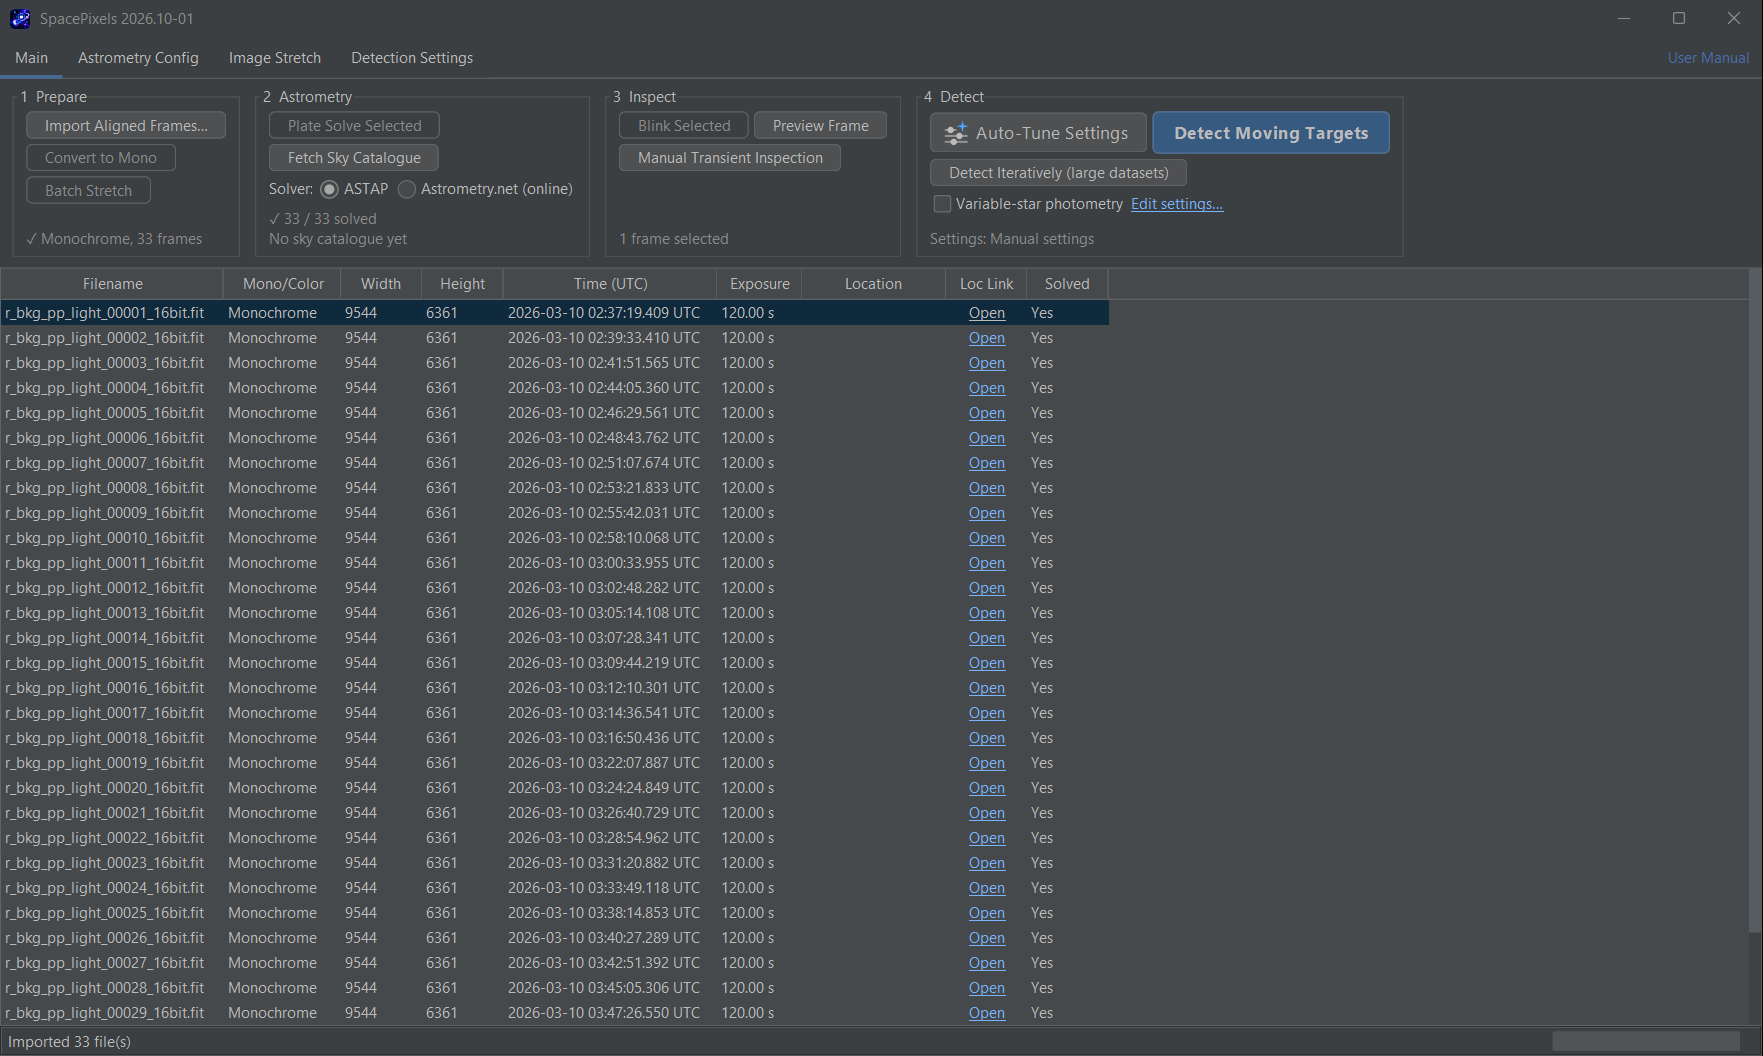
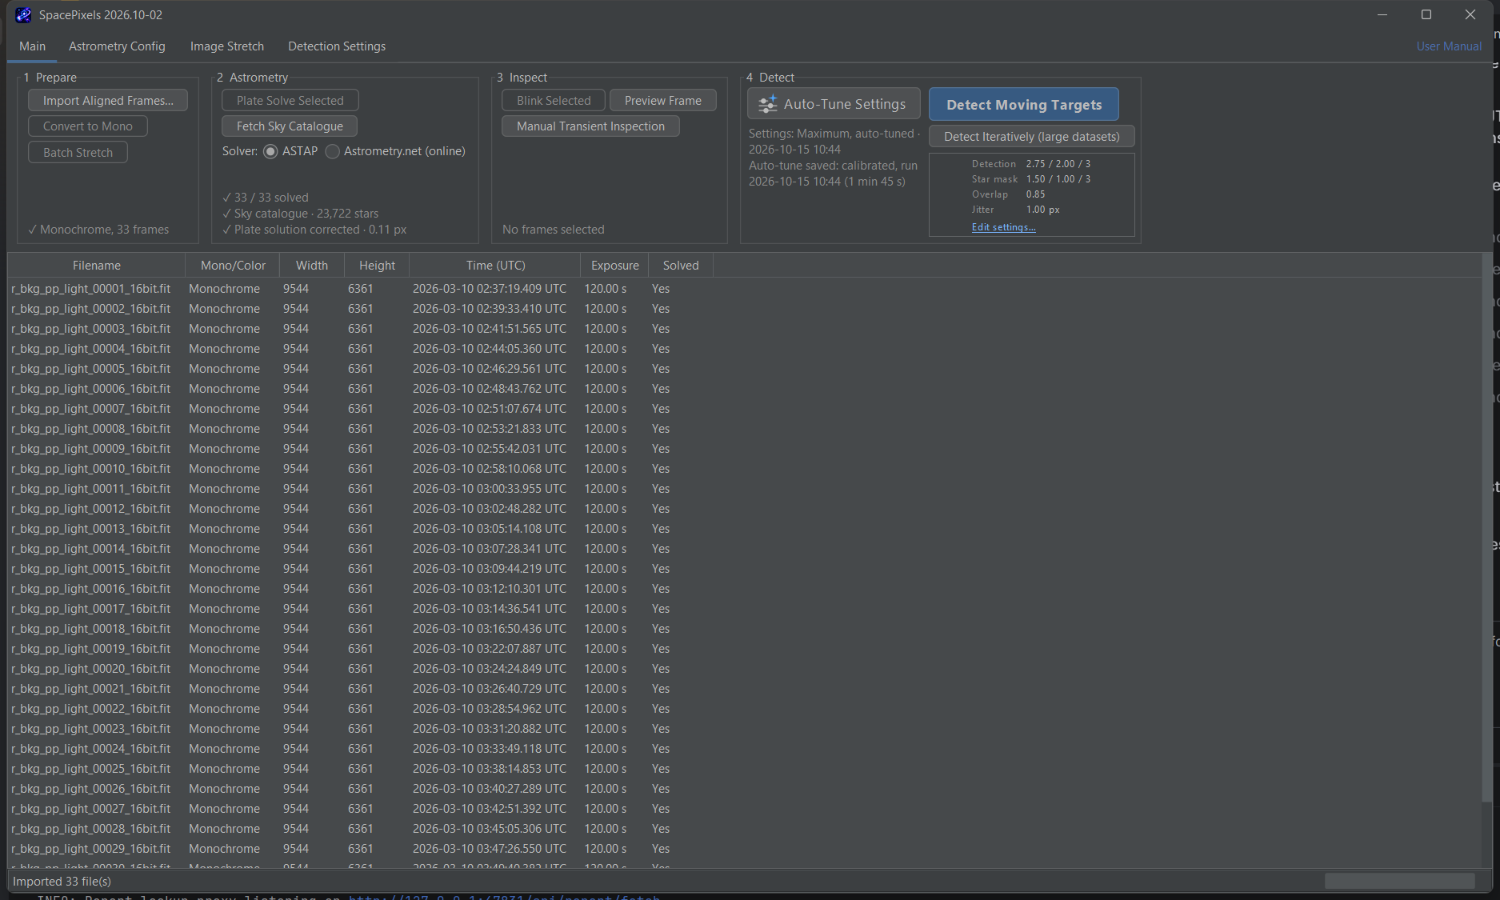
Update manual

Changed region(s): [[0.0, 0.0, 1.0, 1.0]]

diff --git a/MANUAL.md b/MANUAL.md
@@ -24,13 +24,16 @@ This manual walks through the everyday workflows with screenshots from real sess
 
 ### Your data
 
-SpacePixels is the opposite of a stacker: it looks for what changes between your frames, so it needs the frames *before* they are stacked. It works best with:
+The input to SpacePixels is the same input files for your stacking software: the aligned  + calibrated dataset.
+But SpacePixels is the opposite of a stacker: it looks for what changes between your frames. It works best with:
 
 - **aligned (registered) sub-exposures**, so the stars stay in the same place in every frame;
 - **calibrated** frames (darks and flats), although uncalibrated data also works, with more noise detections;
 - frames from **one session and one camera setup**, all with the same size;
 - **timestamps** in the FITS headers (`DATE-OBS`), so speeds and object identification work.
 - **unprocessed** data (i.e. just raw images, calibrated and aligned)
+
+
 
 Supported files: FITS (`.fit`, `.fits`, `.fts`), compressed FITS (`.fz`) and XISF, 16 or 32 bit, monochrome or colour. SpacePixels offers to convert what the detection needs (decompression, 16 bit, monochrome) when you import. Keep one sequence per folder: all files in a folder must have the same type, bit depth, size and layout, and either all frames have timestamps or none.
 
@@ -63,7 +66,11 @@ The window has four tabs:
 | **Image Stretch** | how frames are displayed in the viewers |
 | **Detection Settings** | Auto-Tune and every detection setting |
 
-The other tabs open once frames are imported. Each group on the Main tab has a status line underneath that tells you what is ready and what is missing; when a button is greyed out, its tooltip says why. The **User Manual** link at the right end of the tab bar opens this manual in your browser.
+The other tabs open once frames are imported. **1 Prepare**, **2 Astrometry** and **3 Inspect** each have a status line underneath that tells you what is ready and what is missing; when a button is greyed out, its tooltip says why.
+
+**Detect** is split in two. On the left, **Auto-Tune Settings** has a short note under it: which settings are in use, and, after this folder has a saved auto-tune, when that auto-tune was run. On the right are **Detect Moving Targets**, **Detect Iteratively**, and a small box with the detection settings now in use: detection and star-mask sigma, grow and minimum pixels, the mask overlap, and the star jitter. **Edit settings…** at the bottom of that box opens Detection Settings.
+
+The **User Manual** link at the right end of the tab bar opens this manual in your browser.
 
 ---
 
@@ -77,7 +84,7 @@ Click **Import Aligned Frames…** (the highlighted button in **1 Prepare**) and
 
 ![The imported session](docs/images/manual/ui-imported.png)
 
-The table lists every frame with its size, time, exposure, location and whether it is plate-solved. The status lines confirm what SpacePixels found: here *Monochrome, 33 frames* and *33 / 33 solved*. If the frames are in colour, click **Convert to Mono** first; if they are compressed, XISF or 32 bit, SpacePixels offers the conversion during import.
+The table lists every frame with its size, time, exposure and whether it is plate-solved. The status lines confirm what SpacePixels found: here *Monochrome, 33 frames* and *33 / 33 solved*. If this folder already has a saved auto-tune, the note under **Auto-Tune Settings** names the profile and when it was run, and the box on the right shows those detection settings. If the frames are in colour, click **Convert to Mono** first; if they are compressed, XISF or 32 bit, SpacePixels offers the conversion during import.
 
 ### Step 2 (optional): plate-solve one frame
 
@@ -97,7 +104,7 @@ Open **Detection Settings** (or click **Edit settings…** in **4 Detect**). The
 
 ![Auto-Tune running](docs/images/manual/ui-autotune-running.png)
 
-Click **Run Auto-Tune**, or **Auto-Tune Settings** to the left of **Detect Moving Targets** on the Main tab (or press **Ctrl+T**), which opens this page and starts the run with the tuner and profile chosen here. It measures your own frames: how sharp the stars are, how much the stars jitter, how many noise detections each setting produces and how faint a test star each setting still finds. This takes from a few seconds to a few minutes (here 2 min 7 s for 33 × 61 MPix).
+Click **Run Auto-Tune**, or **Auto-Tune Settings** on the Main tab (or press **Ctrl+T**), which opens this page and starts the run with the tuner and profile chosen here. It measures your own frames: how sharp the stars are, how much the stars jitter, how many noise detections each setting produces and how faint a test star each setting still finds. This takes from a few seconds to a few minutes (here 1 min 45 s for 33 × 61 MPix). While it runs, the button reads **Tuning…** and a progress window shows the frame it is on. **Preview Frame** on this page opens the same preview as **Preview Frame** on the Main tab.
 
 ![Auto-Tune results](docs/images/manual/ui-autotune-done.png)
 
@@ -114,7 +121,9 @@ The columns tell you what to expect: **Expected noise detections** is about how 
 
 The profile chosen in **Apply after run** (High by default) is applied as soon as the run finishes; SpacePixels remembers your choice. To switch, select another row and click **Use Selected Profile**. The changed settings are marked with a blue name and a dot, and **Save** keeps them for the next start.
 
-**Show Auto-Tune Chart…** draws, for the profile you pick, the false detections against the share of test stars found (the budget is the vertical line, and the marked point is the setting that was chosen) and the recovery of test stars by brightness for that setting.
+**Show Auto-Tune Chart…** draws, for the profile you pick, the false detections against the share of test stars found (the budget is the vertical line, and the marked point is the setting that was chosen) and the recovery of test stars by brightness for that setting. In the picture the selected profile is Maximum, the one last chosen in **Apply after run**.
+
+![The Auto-Tune chart](docs/images/manual/ui-autotune-chart.png)
 
 The result is also written next to the frames, as `auto_tune.json`, in the same way as the sky catalogue. The file keeps the chosen settings and this chart, not every combination the tuner tried. An older, much larger file is rewritten in this smaller form the next time that folder is imported. Importing that folder again shows when the calibrated tuner and the legacy tuner last ran (each is kept on its own). The profile in **Apply after run** is selected from the saved calibrated result when that result has it, so detection can use it without measuring again. **Run Auto-Tune**, **Auto-Tune Settings** and **Ctrl+T** always measure again and replace the saved result of the tuner you run. A legacy result is applied on import only when the **Tuner** box is set to Legacy and its profile matches the one that was tuned; otherwise the row is there and **Use Selected Profile** applies it.
 
@@ -130,13 +139,13 @@ SpacePixels checks the quality of every frame (blank, blurred or failed frames a
 
 The report is a folder named `detections_<date>_<time>` next to your frames; open `detection_report.html` in it with any browser.
 
-If a run finds a very large number of objects, a **High Detection Count Warning** first lists them by kind. Many tracks or anomalies usually mean the settings are too sensitive for this session: try a lower profile.
+If a run finds a very large number of objects, a summary first lists them by kind and asks whether to generate the report. Moving-object tracks, streak tracks, single streaks and suspected streak groupings are always included. Each other group that this run measured, and that found something, has an **In report** box, ticked to start with. Untick a group to leave it out of this report: its section, crops and animations are not written, and the line under the list says how many of these detections the report will still include. A group you had switched off before the run is not listed. The detection settings are not changed, so the next run still measures those groups. Many tracks or anomalies usually mean the settings are too sensitive for this session: try a lower profile.
 
 ---
 
 ## 4. Reading the report
 
-The report starts with an overview, then the results; the processing diagnostics come last, collapsed. Its sections follow the kinds of results:
+The report starts with an overview, then the results. **Diagnostics** comes near the end and starts expanded; click its heading to collapse it. The sections follow the kinds of results:
 
 | Result | What it is | Typical objects |
 |---|---|---|
@@ -152,9 +161,9 @@ The report starts with an overview, then the results; the processing diagnostics
 
 ![Report summary](docs/images/manual/report-summary.png)
 
-Under the title, one line describes the session: field, date and time span, frames kept, exposure, camera and whether the frames are plate-solved. The **Jump to** bar below it stays at the top of the window and leads to every section, with its count. The **Overview** has a card for each kind of result that was found (click a card to jump to it) and lists what was not found. The results come first; the processing details (quality control with the rejected frames and their reasons, configuration, star mask, extraction, track linking) are collected in the **Diagnostics** group near the end, collapsed until you click it. A line under the cards links to it (with the frames kept and rejected), and the link opens the group.
+Under the title, one line describes the session: field, date and time span, frames kept, exposure, camera and whether the frames are plate-solved. The **Jump to** bar below it stays at the top of the window and leads to every section, with its count. The **Overview** has a card for each kind of result that was written (click a card to jump to it) and lists what was not found. A group left out of this report is named in that line. The results come first. The processing details (quality control with the rejected frames and their reasons, configuration, star mask, extraction, track linking, and the time taken by each detection step) are collected in the **Diagnostics** group near the end. It is open when the report loads; click the heading to collapse it. A line under the cards links to it, with the frames kept and rejected.
 
-![The session picture with the catalogue switched on: the Horsehead and Flame nebulae near Alnitak](docs/images/manual/report-session-picture.jpg)
+![The session, with the catalogue and the detections: NGC 2236, NGC 2251, IC 448 and the Monoceros Nebula](docs/images/manual/report-session-picture.png)
 
 Below the cards is **the session**: the median stack of the frames kept, with three switches over it.
 
@@ -165,6 +174,8 @@ Below the cards is **the session**: the median stack of the frames kept, with th
 Click the picture for the full-size stack.
 
 **Detection Stage Timings**, under Diagnostics, shows the elapsed time and share of engine time for each major detection step. Faint streak fragment assembly is indented under tracking: its time is already included in the tracking total. Parallel steps show elapsed time, not the sum of worker times. Steps that were switched off are omitted. Image loading, Auto-Tune and report generation are outside the engine total.
+
+![Detection stage timings](docs/images/manual/report-diagnostics.png)
 
 Common-motion filtering runs after the main tracks, streaks and anomalies, before local rescue and activity clustering. It sets aside separated compact sources with matching displacement and keeps their observations available in the Common Motion report section. Ambiguous associations are kept for further review. **Reject Common Motion** has its own switch; turning off **Enable Residual Transient Analysis** skips local rescue and activity clustering but does not turn off common-motion filtering.
 
@@ -256,7 +267,7 @@ For exact results, set your observing site on the **Astrometry Config** tab (or 
 
 ### Asteroids in a wide field
 
-The session of [section 3](#3-workflow-find-moving-objects-in-a-session): 33 frames of 2 minutes with a 61-megapixel camera, plate-solved in the FITS headers. With the default **High** profile, SpacePixels found three moving objects, and the JPL buttons identified all three:
+The session of [section 3](#3-workflow-find-moving-objects-in-a-session): 33 frames of 2 minutes with a 61-megapixel camera, plate-solved in the FITS headers. SpacePixels found three moving objects, and the JPL buttons identified all three:
 
 | Track | Object | Magnitude (V) |
 |---|---|---|
@@ -264,11 +275,11 @@ The session of [section 3](#3-workflow-find-moving-objects-in-a-session): 33 fra
 | T2 | 611 Valeria | 14.3 |
 | T3 | 194 Prokne | 13.3 |
 
-Sutoku moved only 15 pixels in 77 minutes, yet it was linked through 25 frames. The same report also has several satellite trails and many single-frame anomalies; with this many results, the High Detection Count Warning appeared before the report was written:
+Sutoku moved only 15 pixels in 77 minutes, yet it was linked through 25 frames. The same report has the satellite trails as streak tracks. When a run finds this many objects, the summary appears before the report is written, and a noisy group can be left out:
 
-![High Detection Count Warning](docs/images/manual/ui-warning.png)
+![Detection summary, with the optional groups ticked for the report](docs/images/manual/ui-warning.png)
 
-Most of the 74 anomalies are short events or noise in single frames: they are worth a quick look in the report, but the moving objects are the tracks.
+In the picture the 74 single-frame anomalies are the largest group: short events or noise in single frames. Untick **In report** and they are left out of the report; the moving-object tracks stay. The run shown in [Reading the report](#4-reading-the-report) did that for the anomalies and the common-motion groups.
 
 ### A comet, without plate solving
 
@@ -298,9 +309,9 @@ The same 61-megapixel session with photometry switched on:
 
 ![Variable-star summary](docs/images/manual/variable-stars-summary.png)
 
-The verdict **Ready** means the data passed the linearity checks. SpacePixels measured 61,175 stars, scored 29,799 of them and reported 29 high-confidence and 12 possible variable stars. A **Limited** or **Not ready** verdict says in plain words why, and for Not ready what could help (for example unstretched frames or a longer sequence).
+The verdict **Ready** means the data passed the linearity checks. SpacePixels measured 53,869 stars, scored 43,859 of them and reported 45 high-confidence and 22 possible variable stars. A **Limited** or **Not ready** verdict says in plain words why, and for Not ready what could help (for example unstretched frames or a longer sequence).
 
-The candidates are first listed in a table: tier, position, observed variation in this session, the shape of the change (faded, brightened, dipped and recovered…) and any failed check. **Identify all in VSX** looks every candidate up in the AAVSO Variable Star Index and fills the **Known As** column; this needs SpacePixels running, and the results are saved into the report. In this session, 24 of the 41 candidates are catalogued variables:
+The candidates are first listed in a table: tier, position, observed variation in this session, the shape of the change (faded, brightened, dipped and recovered…) and any failed check. When the sky catalogue was fetched before the detection, the **Known As** column is filled as the report is written, for every candidate the catalogue contains. **Look up the N others in VSX** looks up only the rest; this needs SpacePixels running, and the results are saved into the report. In this session, 52 of the 67 candidates were already in the catalogue, so the button reads **Look up the 15 others in VSX**:
 
 **Observed variation in this session** is the 95th minus the 5th percentile of the usable differential magnitudes over the measured time span. It is not a full-cycle amplitude. **Catalogue range** and **Catalogue amplitude** refer to the listed catalogue passbands; filter, phase and time coverage can make them differ from the session measurement. A small fraction of an orbital period can still contain a substantial eclipse.
 
@@ -310,15 +321,15 @@ An amber **review amplitude** note is a conservative screening prompt: the obser
 
 **Review source metadata** identifies a source-verified catalogue discrepancy. The original VSX values remain visible alongside the publication and any unit conversion. Older saved catalogues still load; their shared passband and missing uncertainty metadata are identified as provisional. Fetching the sky catalogue again supplies the additional metadata when the service is available.
 
-![The candidate table after Identify all in VSX](docs/images/manual/variable-stars-table.png)
+![The candidate table. Known As comes from the sky catalogue; V2 was not in it](docs/images/manual/variable-stars-table.png)
 
 Each candidate then has a card with a one-line summary and its light curve, drawn above three constant stars of similar brightness for comparison; **Statistics** opens the detailed measures:
 
-![A variable-star candidate](docs/images/manual/variable-star-candidate.png)
+![A variable-star candidate, with the catalogue entry written into the report](docs/images/manual/variable-star-candidate.png)
 
 When the sky catalogue of the session was fetched before the detection (see [Annotate](#annotate-stars-deep-sky-objects-and-variable-stars)), the **Known As** column is filled when the report is written, for every candidate that is among the catalogue's VSX stars, with no button and no SpacePixels needed. The button then reads **Look up the N others in VSX** and looks up only the rest: the catalogue has the variables down to one magnitude fainter than its star depth, and the full VSX also has the fainter ones. Each candidate card then starts with what the catalogues say: its VSX name, the type in words (for example *EW, W UMa-type eclipsing binary*), the catalogued range and period, how much of the period the session covers (*This session spans 5.0 h, 77.2% of the catalogued period*), and the star's Gaia G magnitude and colour. These are catalogue values. SpacePixels measures instrumental differential magnitudes, without calibrating them to a catalogue passband.
 
-**Check VSX Here** looks one star up: candidate V1 is the catalogued δ Scuti star ASASSN-V J063632.76+064632.3, 5″ away, with a period of 2.5 hours. The light curve shows it rising and falling by 0.43 magnitudes within the 75 minutes of the session. A candidate without a VSX match may be a new variable, or a false one: check its light curve, the comparison stars and the cutouts before reporting it.
+Candidate V1 is already named from the catalogue: the high-amplitude δ Scuti star ASASSN-V J063632.76+064632.3, 0.2″ away, with a period of 2.5 hours. The light curve shows it rising and falling by 0.43 magnitudes within the 75 minutes of the session. **Check VSX Here** searches the full VSX for that position, using saved lookup results when available. A candidate without a VSX match may be a new variable, or a false one: check its light curve, the comparison stars and the cutouts before reporting it.
 
 ---
 
@@ -405,7 +416,7 @@ Sets how frames look in Blink, Preview Frame, Manual Transient Inspection and **
 
 ### Detect Iteratively (large datasets)
 
-Runs the detection in several passes over subsets of the frames, for sessions too large for one run, and for very slow objects. It writes one report per pass and a summary.
+Runs the detection in several passes over subsets of the frames, for sessions too large for one run, and for very slow objects. It writes one report per pass and a summary. To reduce memory use, enter a smaller maximum frame count when prompted: leaving the limit blank or zero still loads all frames to build the initial master stack. Variable-star photometry is skipped in iterative mode; use **Detect Moving Targets** for that analysis.
 
 ### Command line
 
@@ -451,6 +462,6 @@ In most sessions you only need Auto-Tune and the profile. Change single settings
 
 **No identification buttons.** Plate-solve one frame (section [3, step 2](#step-2-optional-plate-solve-one-frame)). The buttons that show results **Here** need SpacePixels to be running.
 
-**Out of memory.** Close other programs, lower **Frames Used by Auto-Tune** (Detection Settings → Quality Control, an expert setting) to limit the tuner, or use **Detect Iteratively**.
+**Out of memory.** Close other programs. If Auto-Tune runs out of memory, lower **Frames Used by Auto-Tune** (Detection Settings → Quality Control, an expert setting). For moving-object detection, use **Detect Iteratively** and set a smaller maximum frame count; leaving the limit blank or zero still loads all frames for the master stack.
 
 **Colour frames.** Detection works on monochrome data; click **Convert to Mono** after importing.
